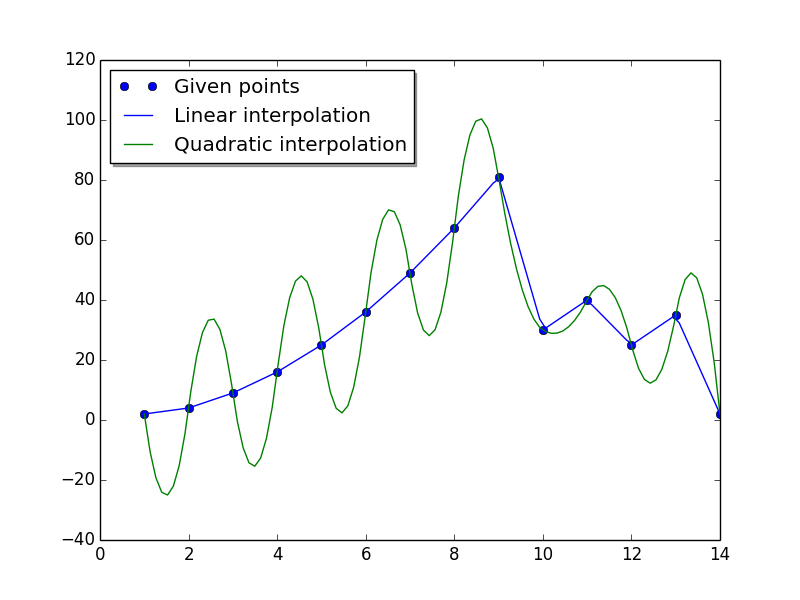
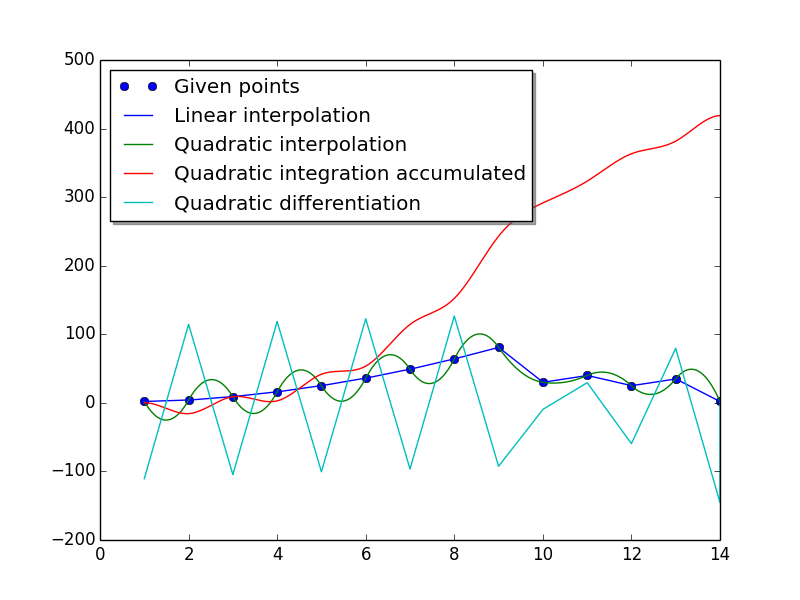
Added missing differentiate and integral

diff --git a/1_Interpolation/quadraticspline.py b/1_Interpolation/quadraticspline.py
@@ -3,6 +3,9 @@ import search
 
 def qinterp(x,y,z):
 	qs = np.zeros(len(z))
+	dz = np.zeros(len(z))
+	qint = np.zeros(len(z))
+	dint = np.zeros(len(z))
 	dx = np.zeros(len(x))
 	dy = np.zeros(len(x))
 	a1 = np.zeros(len(x))
@@ -12,6 +15,8 @@ def qinterp(x,y,z):
 	for i in range(len(x)-1):
 		dx[i] = x[i+1]-x[i]
 		dy[i] = y[i+1]-y[i]
+	for i in range(len(z)-1):
+		dz[i] = z[i+1]-z[i]
 	for j in range(len(x)-1):
 		a1[j+1] = 1/dx[j+1]*(dy[j+1]/dx[j+1]-dy[j]/dx[j]-a1[j]*dx[j])
 	for j in range(len(x)-3,-1,-1):
@@ -20,4 +25,9 @@ def qinterp(x,y,z):
 	for k in range(len(z)):
 		l = search.bin(x,z[k])
 		qs[k] = y[l] + dy[l]/dx[l]*(z[k]-x[l])+a[l]*(z[k]-x[l])*(z[k]-x[l+1])
-	return qs
+
+	for i in range(len(z)-1):
+		qint[i] = qs[i]*dz[i]
+		dint[i] = (qs[i+1]-qs[i])/dz[i]
+	qint = np.add.accumulate(qint)
+	return qs,qint,dint

diff --git a/1_Interpolation/mainptB.py b/1_Interpolation/mainptB.py
@@ -8,7 +8,7 @@ data = np.loadtxt('testdat.txt')
 
 x = data[:,0]
 y = data[:,1]
-z = np.linspace(x[0],len(x),100)
+z = np.linspace(x[0],len(x),100000)
 plt.plot(x,y,'bo',label='Given points')
 
 # linear spline interpolation
@@ -16,8 +16,10 @@ f1 = inter.linterp(x,y,z)
 plt.plot(z,f1,label='Linear interpolation')
 
 # quadratic spline interpolation
-f2 = qinter.qinterp(x,y,z)
+f2,qint,dint = qinter.qinterp(x,y,z)
 plt.plot(z,f2,label='Quadratic interpolation')
+plt.plot(z,qint,label='Quadratic integration accumulated')
+plt.plot(z,dint,label='Quadratic differentiation')
 
 # move legend to upper left, add shadows
 legend = plt.legend(loc='upper left', shadow=True, fontsize='large')

diff --git a/1_Interpolation/mainptA.py b/1_Interpolation/mainptA.py
@@ -18,4 +18,3 @@ plt.plot(z,f1, label = 'Linear interpolation')
 legend = plt.legend(loc='upper left', shadow=True, fontsize='large')
 
 plt.savefig('linear.png',format='png')
-# cubic interpolation
